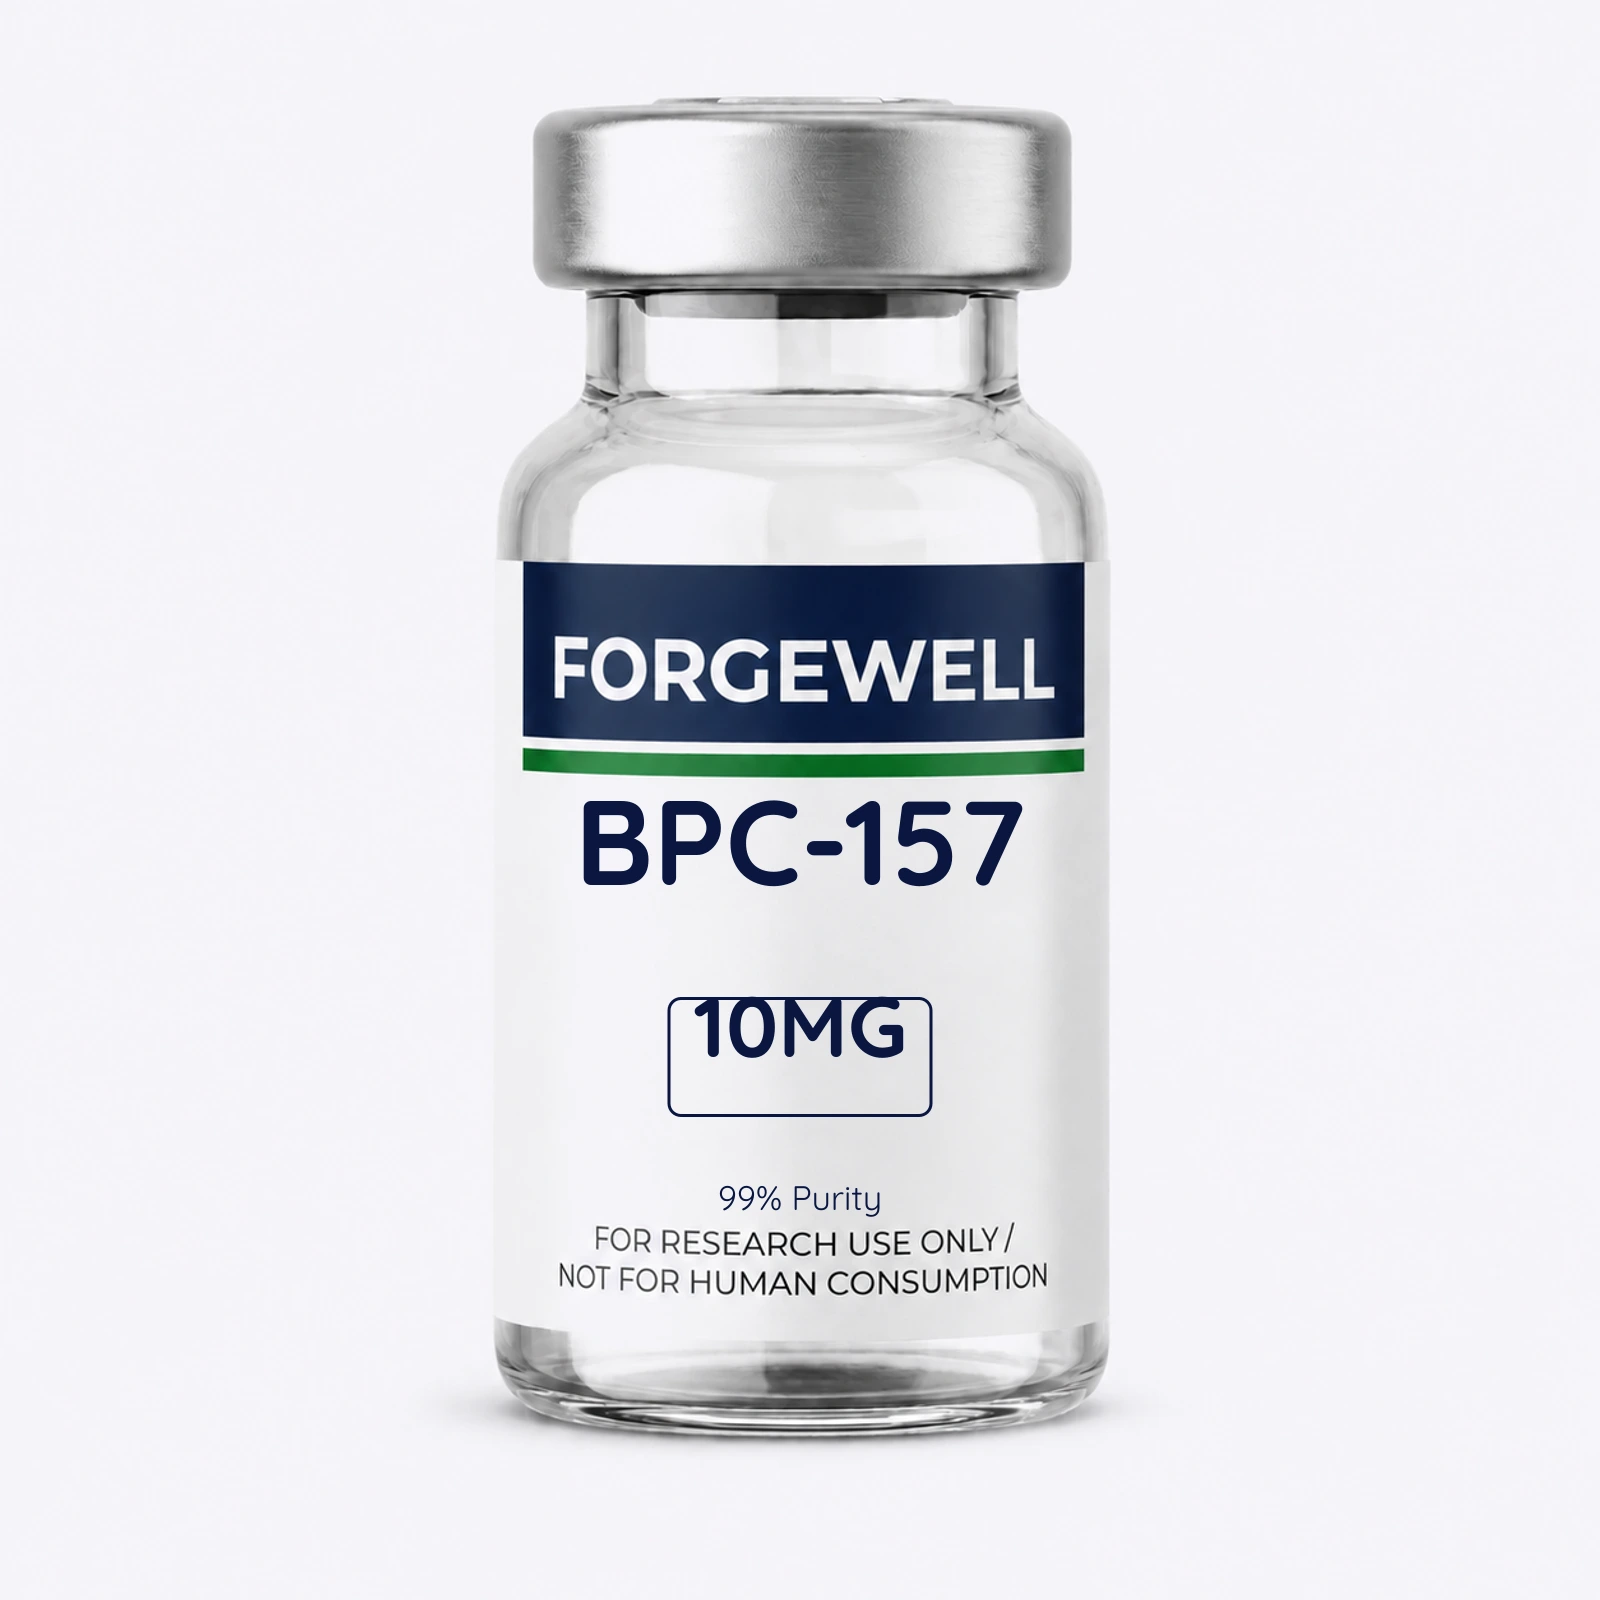
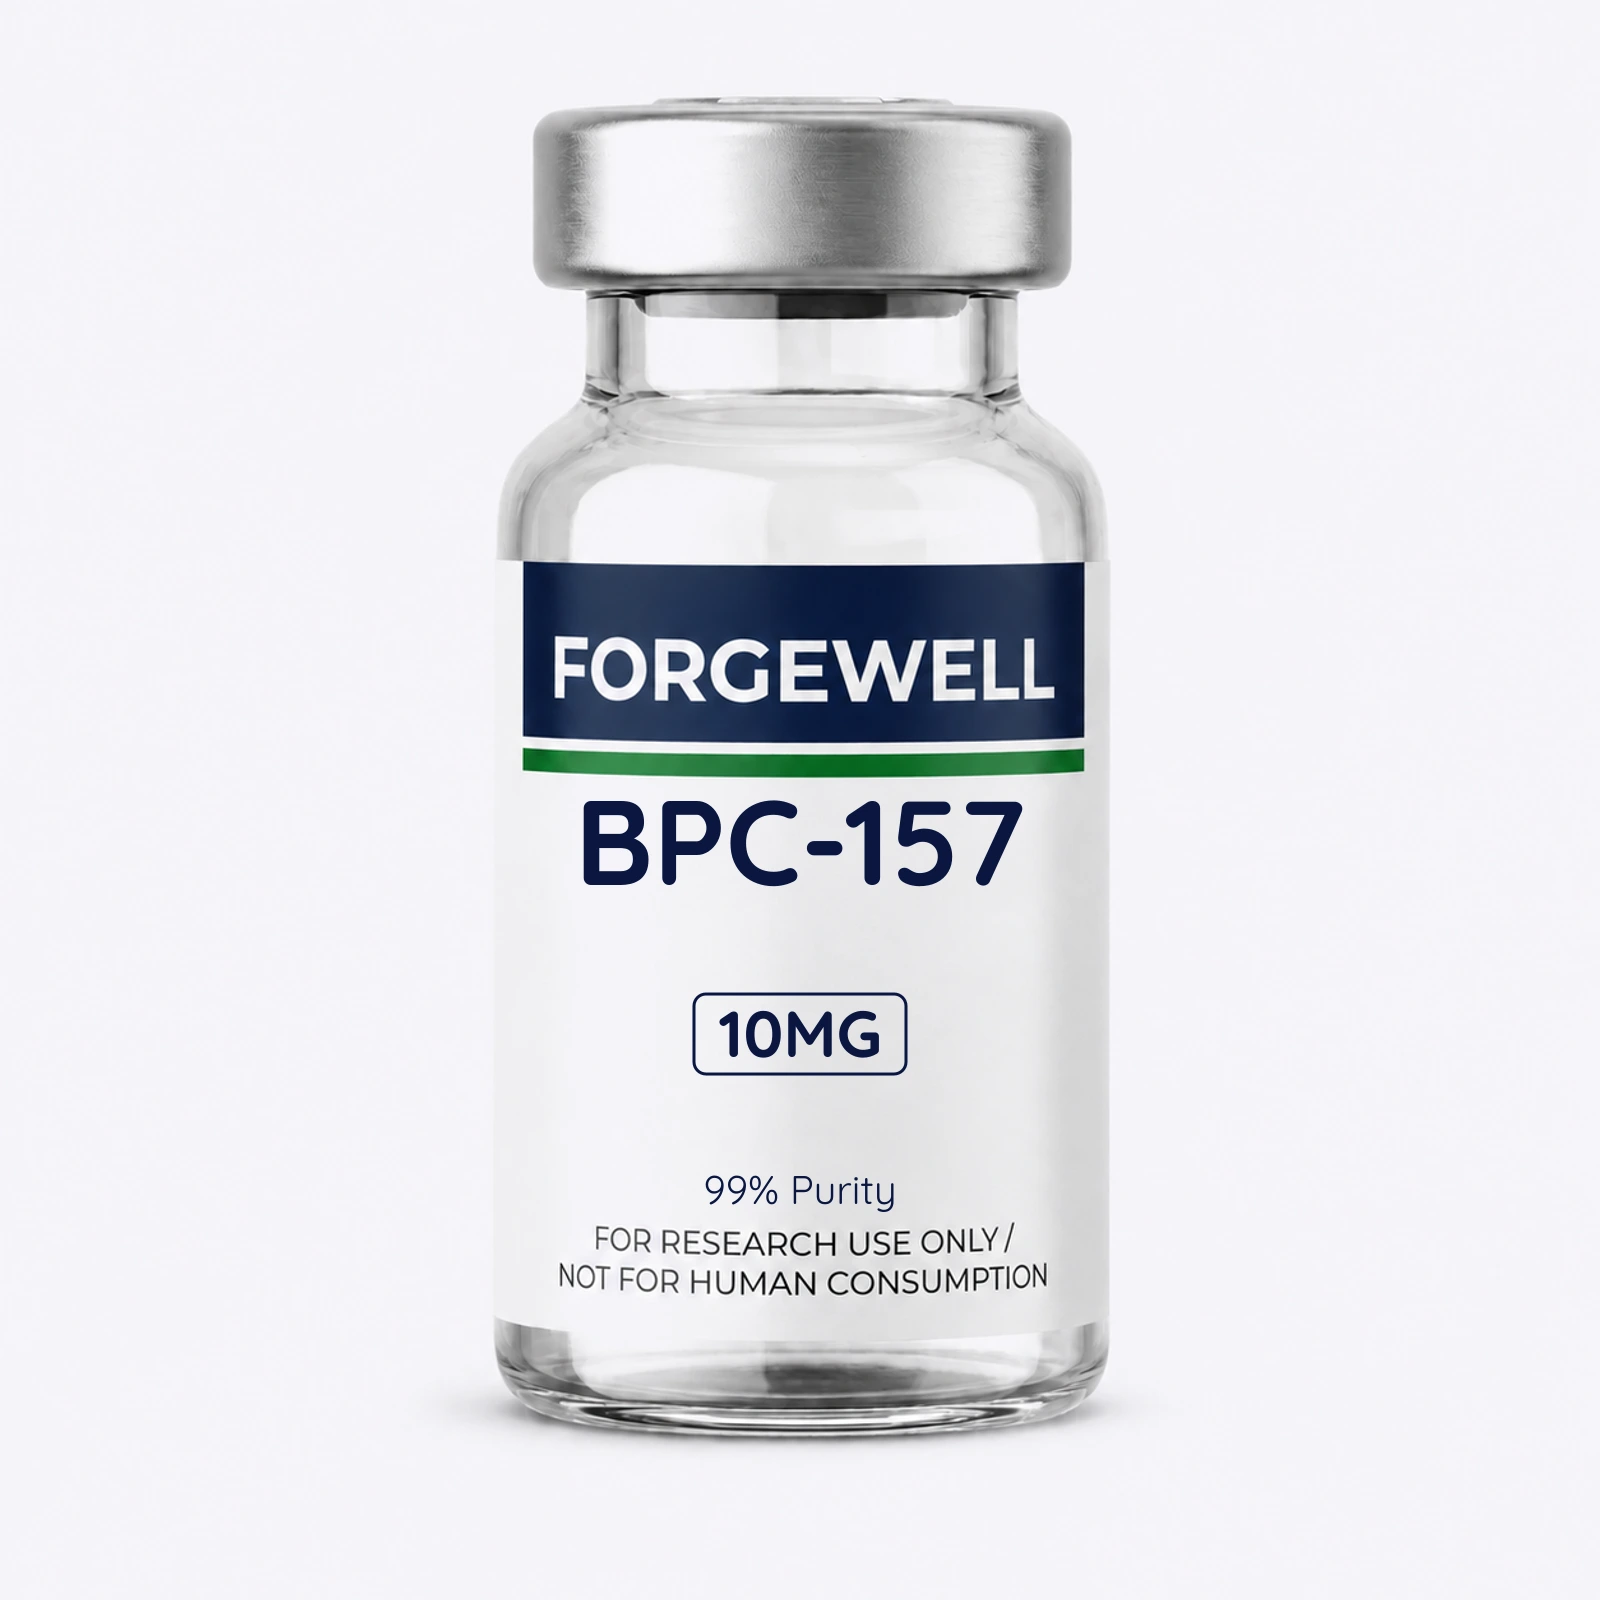
Fix dosage box centering, resize purity and dosage text
- Dosage box now built from the text's actual measured bounding box
  (via a new measureTextMetrics helper: render + trim + read offsets)
  instead of the nominal yCenter/fontSize. dominant-baseline="central"
  centers on the font's ascent/descent box, not the glyph ink, which
  was leaving the box visibly off-center around the text (~30px
  vertical offset at fontSize 85, confirmed by measurement).
- Purity font size increased 34px -> 40px. Measured its rendered
  height (37px) against the disclaimer's own measured cap-height
  (~28-29px) to confirm it's now clearly at least as large, and
  re-verified 14px of clearance remains before the disclaimer at the
  new size (re-tuned yCenter, since a naive size bump at the same
  position would have pushed it past the disclaimer boundary).
- Dosage font size reduced: 85px -> 65px (single-line), 75px -> 58px
  (wrapped).

Re-verified against the same 5 real-catalog test cases used in prior
rounds -- all three previously-fixed layout bugs (width-based
wrapping, 2-line header collision, purity/disclaimer overlap) still
hold under these changes.

Changed region(s): [[0.4062, 0.5938, 0.5938, 0.6875], [0.4375, 0.7188, 0.5625, 0.7812]]

diff --git a/scripts/generate-dosage-images.js b/scripts/generate-dosage-images.js
@@ -55,15 +55,22 @@ const ZONE_BOTTOM = 1226; // measured: disclaimer line 1 (fixed) starts
 
 const NAME_SINGLE = { yCenter: 885, fontSize: 120 };
 const NAME_TWO_LINE = { line1YCenter: 850, line2YCenter: 955, fontSize: 88 };
-const DOSAGE_SINGLE = { yCenter: 1057, fontSize: 85 };
-const DOSAGE_WRAPPED = { yCenter: 1075, fontSize: 75 };
+const DOSAGE_SINGLE = { yCenter: 1057, fontSize: 65 };
+const DOSAGE_WRAPPED = { yCenter: 1075, fontSize: 58 };
 // Anchored to the fixed disclaimer position (ZONE_BOTTOM=1226) rather than
-// relative to dosage -- deliberately tight (~2px clearance) per explicit
-// request to sit "just above/overlapping" the disclaimer, not the old
-// accidental-overlap bug from a prior pass. Same position regardless of
-// whether the name wrapped, since it's the disclaimer (fixed either way)
-// it's anchored against, not the name.
-const PURITY = { yCenter: 1210, fontSize: 34, weight: 400 };
+// relative to dosage -- deliberately tight per explicit request to sit
+// "just above/overlapping" the disclaimer, not the old accidental-overlap
+// bug from a prior pass. Same position regardless of whether the name
+// wrapped, since it's the disclaimer (fixed either way) it's anchored
+// against, not the name. fontSize increased from 34->40 (measured: the
+// disclaimer's own baked-in cap-height is ~28-29px; 34px purity already
+// measured taller than that at 32px, but read as smaller/harder to read at
+// weight 400 than the (bold) disclaimer, hence a further bump here) --
+// yCenter was re-measured to preserve a small positive gap at the new size
+// rather than reusing the old 1210 (see the render+measure note on
+// measureTextMetrics below; a naive font-size bump at the same yCenter
+// would have pushed the taller glyph past ZONE_BOTTOM into the disclaimer).
+const PURITY = { yCenter: 1204, fontSize: 40, weight: 400 };
 const DOSAGE_BOX_PAD_X = 26;
 const DOSAGE_BOX_PAD_Y = 16;
 const MIN_FONT_SIZE = 40;
@@ -78,14 +85,22 @@ function textSvg({ text, yCenter, fontSize, color, weight = 700 }) {
     </svg>`;
 }
 
-// Same as textSvg, plus a centered rounded-rect border sized to the text's
-// own measured width (not a fixed box) so it hugs "10MG" as snugly as
-// "5000IU" or "HIGH" without needing a per-value box size.
-function boxedTextSvg({ text, yCenter, fontSize, color, weight = 700, textWidth }) {
+// Same as textSvg, plus a rounded-rect border sized to the text's own
+// measured bounding box (not the nominal yCenter/fontSize) so it actually
+// hugs the glyph. dominant-baseline="central" centers on the font's
+// ascent/descent box, not the visual glyph ink -- for caps/digits with no
+// descenders that renders visibly ABOVE the given yCenter (confirmed by
+// measurement: ~30px high at fontSize 85, ~9px at fontSize 34, scaling with
+// size), so a box built from the nominal yCenter alone ends up with extra
+// slack below the text and the text reading as "not centered" in its box.
+// boxCenterYOffset is that measured discrepancy, applied here so the box
+// wraps where the glyph actually is.
+function boxedTextSvg({ text, yCenter, fontSize, color, weight = 700, textWidth, textHeight, boxCenterYOffset }) {
   const boxW = textWidth + DOSAGE_BOX_PAD_X * 2;
-  const boxH = fontSize + DOSAGE_BOX_PAD_Y * 2;
+  const boxH = textHeight + DOSAGE_BOX_PAD_Y * 2;
+  const boxCenterY = yCenter + boxCenterYOffset;
   const boxX = 800 - boxW / 2;
-  const boxY = yCenter - boxH / 2;
+  const boxY = boxCenterY - boxH / 2;
   return `
     <svg width="${CANVAS}" height="${CANVAS}">
       <rect x="${boxX}" y="${boxY}" width="${boxW}" height="${boxH}" rx="12" ry="12"
@@ -96,14 +111,24 @@ function boxedTextSvg({ text, yCenter, fontSize, color, weight = 700, textWidth 
     </svg>`;
 }
 
-// Renders text off-canvas-position and measures its actual trimmed pixel
-// width -- real measurement, not a character-count estimate (a character
-// count is what let an 11-character single word render wider than the
-// label in an earlier pass).
-async function measureTextWidth(text, fontSize) {
-  const buf = Buffer.from(textSvg({ text, yCenter: 800, fontSize, color: TEXT_COLOR }));
+// Renders text at a fixed reference position (800,800) and measures its
+// actual trimmed pixel bounding box -- real measurement, not a
+// character-count estimate (a character count is what let an
+// 11-character single word render wider than the label in an earlier
+// pass) or an assumption that the glyph sits where dominant-baseline
+// nominally puts it (it doesn't -- see boxedTextSvg above). Returns the
+// glyph's width/height and how far its true center sits from wherever the
+// text was actually asked to render, so callers can compensate.
+async function measureTextMetrics(text, fontSize, weight = 700) {
+  const buf = Buffer.from(textSvg({ text, yCenter: 800, fontSize, color: TEXT_COLOR, weight }));
   const { info } = await sharp(buf).trim().toBuffer({ resolveWithObject: true });
-  return info.width;
+  const centerX = -info.trimOffsetLeft + info.width / 2;
+  const centerY = -info.trimOffsetTop + info.height / 2;
+  return { width: info.width, height: info.height, centerYOffset: centerY - 800, centerXOffset: centerX - 800 };
+}
+
+async function measureTextWidth(text, fontSize) {
+  return (await measureTextMetrics(text, fontSize)).width;
 }
 
 async function shrinkToFit(text, startSize, maxWidth) {
@@ -211,10 +236,11 @@ async function generate({ name, dosage, purity }) {
   );
 
   const dosageText = dosage.toUpperCase();
-  const dosageWidth = await measureTextWidth(dosageText, layout.dosage.fontSize);
+  const dosageMetrics = await measureTextMetrics(dosageText, layout.dosage.fontSize);
   const dosageBuf = Buffer.from(boxedTextSvg({
     text: dosageText, yCenter: layout.dosage.yCenter, fontSize: layout.dosage.fontSize,
-    color: TEXT_COLOR, textWidth: dosageWidth,
+    color: TEXT_COLOR, textWidth: dosageMetrics.width, textHeight: dosageMetrics.height,
+    boxCenterYOffset: dosageMetrics.centerYOffset,
   }));
 
   const purityBuf = Buffer.from(textSvg({
